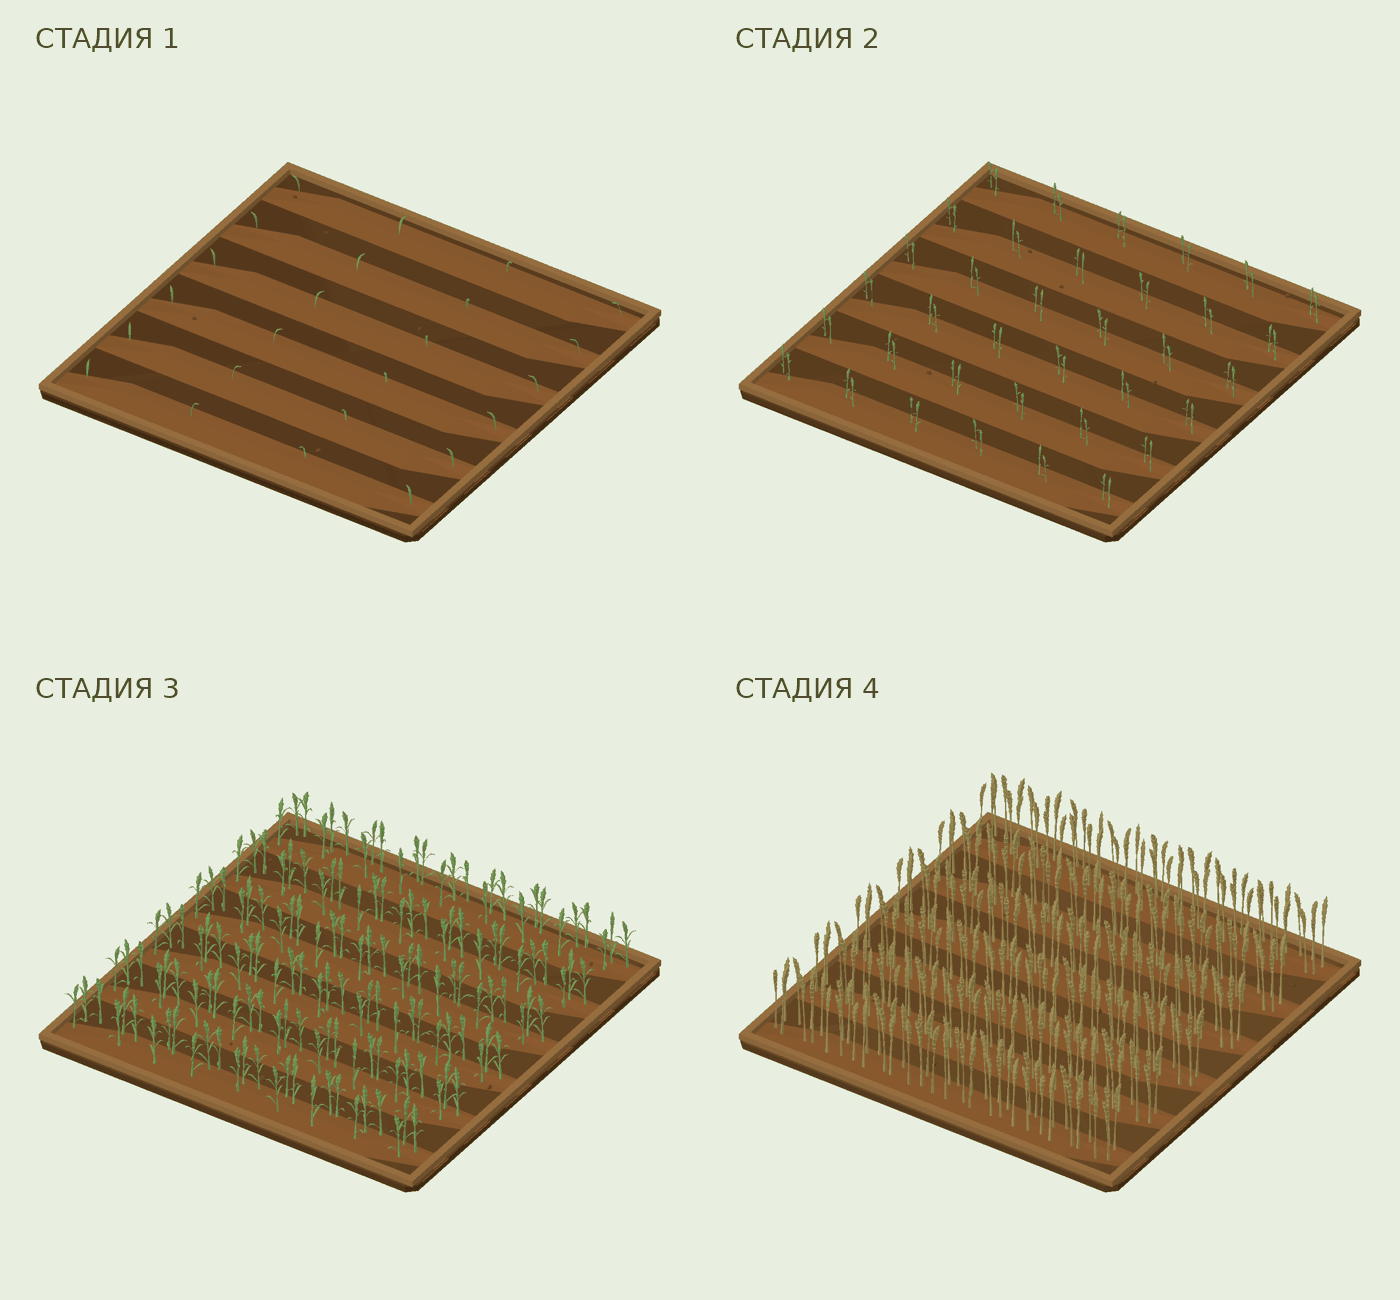
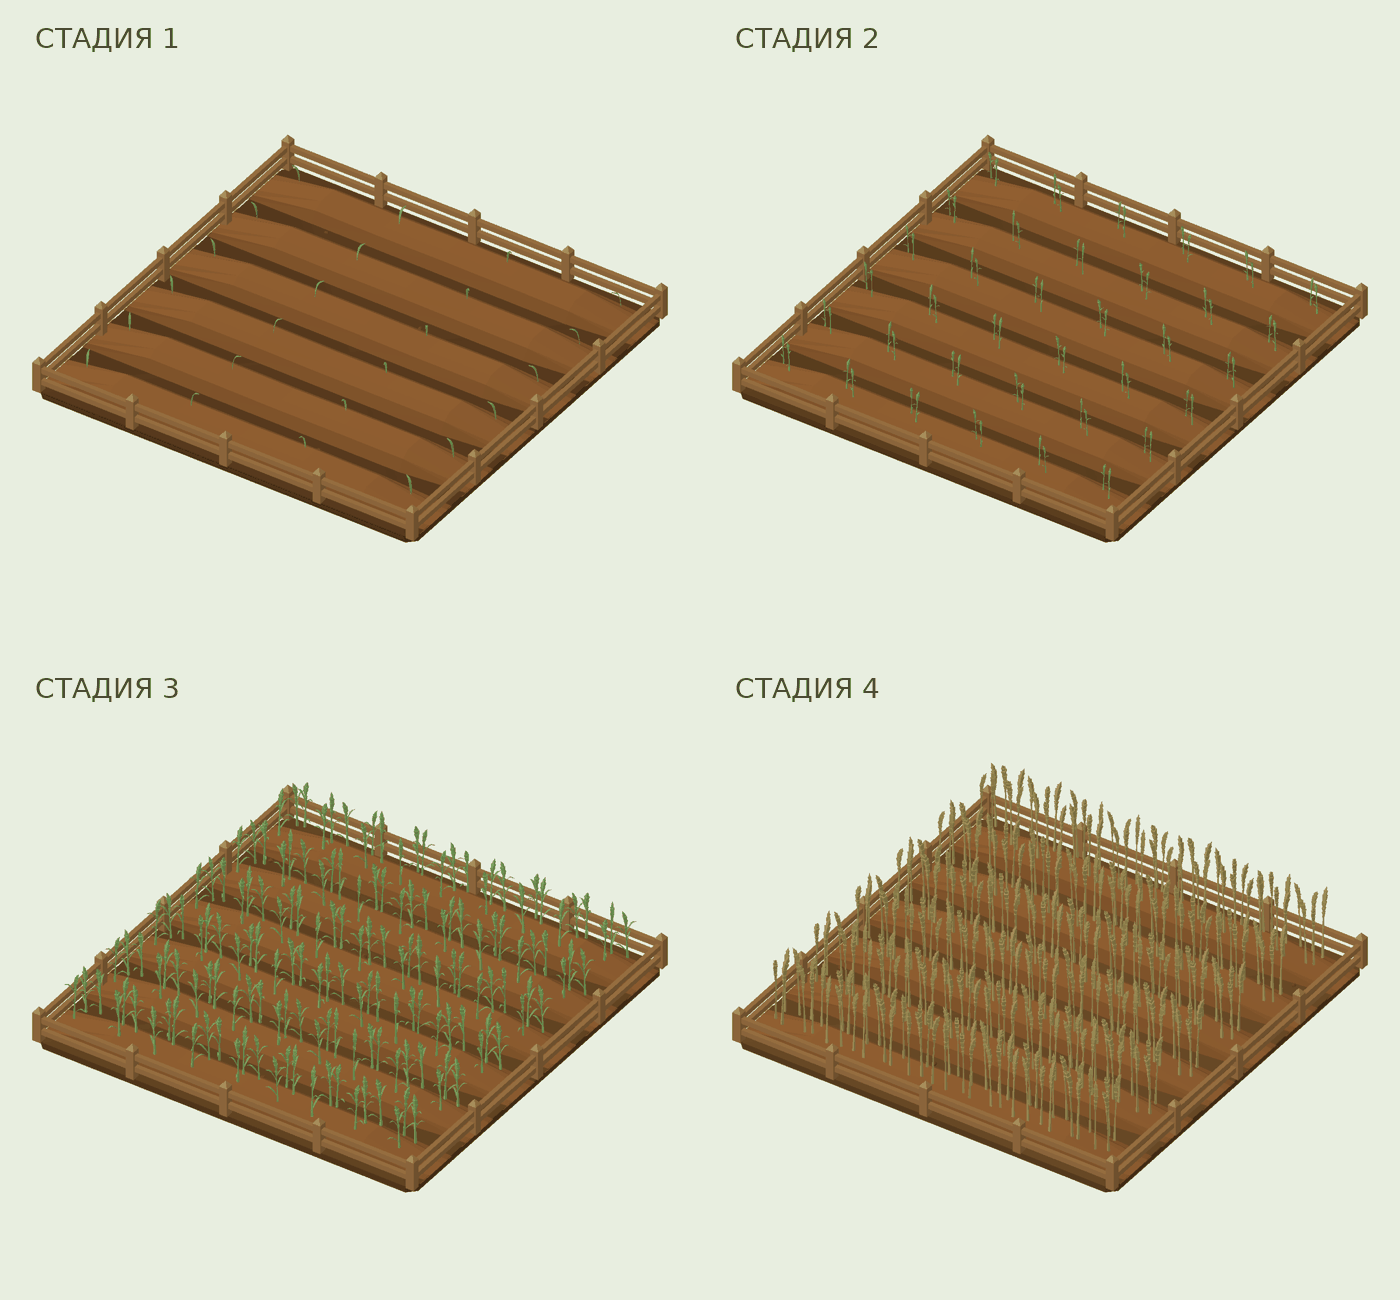
Raise convex low-poly furrows and replace field edging with low post-and-rail fences

diff --git a/src/main.js b/src/main.js
@@ -1,15 +1,15 @@
-import { freshResearch, hasResearch, navigationRange, canTrade } from './research.js?v=lowpoly-fields-1';
-import { STARTING_DECK, promoteReserve, replacementType, hasPlayableCard, canBulldoze } from './card-economy.js?v=lowpoly-fields-1';
-import { collectMillFieldGroups } from './mill-fields.js?v=lowpoly-fields-1';
+import { freshResearch, hasResearch, navigationRange, canTrade } from './research.js?v=field-fence-1';
+import { STARTING_DECK, promoteReserve, replacementType, hasPlayableCard, canBulldoze } from './card-economy.js?v=field-fence-1';
+import { collectMillFieldGroups } from './mill-fields.js?v=field-fence-1';
 import * as THREE from 'three';
 import { MapControls } from 'three/addons/controls/MapControls.js';
 import { GLTFLoader } from 'three/addons/loaders/GLTFLoader.js';
 import { RoundedBoxGeometry } from 'three/addons/geometries/RoundedBoxGeometry.js';
-import { CARD_DEFS, DECK_WEIGHTS, DIRECTIONS, GRID } from './config.js?v=lowpoly-fields-1';
-import { createWorldModel, fitModelToBounds } from './model-layout.js?v=lowpoly-fields-1';
-import { ASSETS, assetVariant } from './models.js?v=lowpoly-fields-1';
+import { CARD_DEFS, DECK_WEIGHTS, DIRECTIONS, GRID } from './config.js?v=field-fence-1';
+import { createWorldModel, fitModelToBounds } from './model-layout.js?v=field-fence-1';
+import { ASSETS, assetVariant } from './models.js?v=field-fence-1';
 import { buildTerrainTile, buildShoreWater, disposeTerrainTile } from './terrain.js?v=water-v2-1';
-import { createBoatVisual, attachLighthouseBeam } from './marine-visuals.js?v=lowpoly-fields-1';
+import { createBoatVisual, attachLighthouseBeam } from './marine-visuals.js?v=field-fence-1';
 import {
   createIslandFragment,
   fragmentDescription,
@@ -18,7 +18,7 @@ import {
   rotateIslandCard,
   rotatedFragmentCells,
   syncIslandGhost
-} from './island-fragments.js?v=lowpoly-fields-1';
+} from './island-fragments.js?v=field-fence-1';
 
 const $=s=>document.querySelector(s);
 const canvas=$('#game');
@@ -1410,7 +1410,8 @@ function createFieldRidge(length,width,height,{westConnected=false,eastConnected
     const t=i/sections;
     const taper=Math.min(1,westConnected?1:t/.12,eastConnected?1:(1-t)/.12);
     const rise=height*taper+(i>0&&i<sections?Math.sin(i*2.1+seed)*.006:0);
-    return [[(t-.5)*length,.258,-width/2],[(t-.5)*length,.258+rise,0],[(t-.5)*length,.258,width/2]];
+    const profile=[[-.50,0],[-.36,.64],[-.20,1],[.20,1],[.36,.64],[.50,0]];
+    return profile.map(([z,y])=>[(t-.5)*length,.258+rise*y,z*width]);
   }
   function triangle(a,b,c,shade){
     const tint=earth.clone().multiplyScalar(shade);
@@ -1418,8 +1419,8 @@ function createFieldRidge(length,width,height,{westConnected=false,eastConnected
   }
   for(let i=0;i<sections;i++){
     const a=section(i),b=section(i+1);
-    for(let j=0;j<2;j++){
-      const shade=j===0?1.07:.92;
+    for(let j=0;j<5;j++){
+      const shade=[.84,1.01,1.10,.96,.78][j];
       triangle(a[j],a[j+1],b[j],shade);triangle(b[j],a[j+1],b[j+1],shade);
     }
   }
@@ -1432,13 +1433,35 @@ function createFieldRidge(length,width,height,{westConnected=false,eastConnected
 }
 function addFieldBorders(group,adjacency){
   const wood=new THREE.MeshStandardMaterial({color:0xa27645,roughness:1,flatShading:true});
-  const half=GRID.tileSize/2-.045;
+  const capMaterial=new THREE.MeshStandardMaterial({color:0xba8d55,roughness:1,flatShading:true});
+  const half=GRID.tileSize/2;
+  const posts=new Set();
+  function addPost(fence,x,z){
+    const id=`${x},${z}`;if(posts.has(id))return;posts.add(id);
+    const post=new THREE.Mesh(new THREE.BoxGeometry(.10,.37,.10),wood);
+    post.position.set(x,.258+.185,z);post.name='Fence_Post';
+    post.castShadow=post.receiveShadow=true;fence.add(post);
+    const cap=new THREE.Mesh(new THREE.ConeGeometry(.073,.07,4),capMaterial);
+    cap.rotation.y=Math.PI/4;cap.position.set(x,.258+.37+.035,z);
+    cap.castShadow=cap.receiveShadow=true;fence.add(cap);
+  }
   for(const side of ['north','east','south','west']){
     if(adjacency[side])continue;
+    const fence=new THREE.Group();fence.name=`field_border_${side}`;
     const horizontal=side==='north'||side==='south';
-    const rail=new THREE.Mesh(new THREE.BoxGeometry(horizontal?GRID.tileSize:.09,.075,horizontal?.09:GRID.tileSize),wood);
-    rail.position.set(side==='east'?half:side==='west'?-half:0,.296,side==='south'?half:side==='north'?-half:0);
-    rail.name=`field_border_${side}`;rail.castShadow=rail.receiveShadow=true;group.add(rail);
+    const offset=(side==='north'||side==='west')?-half:half;
+    for(const y of [.258+.13,.258+.28]){
+      const rail=new THREE.Mesh(new THREE.BoxGeometry(horizontal?GRID.tileSize:.055,.065,horizontal?.055:GRID.tileSize),wood);
+      rail.position.set(horizontal?0:offset,y,horizontal?offset:0);
+      rail.name='Fence_Rail';rail.castShadow=rail.receiveShadow=true;fence.add(rail);
+    }
+    for(let i=0;i<=4;i++){
+      // The preceding neighboring field owns the shared endpoint post.
+      if(i===0&&(horizontal?adjacency.west:adjacency.north))continue;
+      const along=-half+GRID.tileSize*i/4;
+      addPost(fence,horizontal?along:offset,horizontal?offset:along);
+    }
+    group.add(fence);
   }
 }
 function addFieldClods(group,stage,tileSize,synergy=false){
@@ -1491,8 +1514,8 @@ function fieldVisual(stage,synergy=false,tile=null){
 
   const ridgeCount=6;
   const rowSpacing=GRID.tileSize/ridgeCount;
-  const ridgeWidth=.50;
-  const ridgeHeight=[.055,.065,.065,.065][safeStage-1];
+  const ridgeWidth=.61;
+  const ridgeHeight=.19;
   const ridgeLength=tileSize+.02;
   const firstZ=-GRID.tileSize*.5+rowSpacing*.5;
 

diff --git a/index.html b/index.html
@@ -138,19 +138,19 @@
 
   <script type="module" src="./src/seed-runtime.js?v=1"></script>
   <script type="module" src="./src/water-v4-macrowaves.js?v=2"></script>
-  <script type="module" src="./src/main.js?v=lowpoly-fields-1"></script>
-  <script type="module" src="./src/territory-card-preview.js?v=lowpoly-fields-1"></script>
+  <script type="module" src="./src/main.js?v=field-fence-1"></script>
+  <script type="module" src="./src/territory-card-preview.js?v=field-fence-1"></script>
   <script type="module" src="./src/biome-runtime.js?v=2"></script>
-  <script type="module" src="./src/card-progression-runtime.js?v=lowpoly-fields-1"></script>
-  <script type="module" src="./src/save-runtime.js?v=lowpoly-fields-1"></script>
+  <script type="module" src="./src/card-progression-runtime.js?v=field-fence-1"></script>
+  <script type="module" src="./src/save-runtime.js?v=field-fence-1"></script>
   <script type="module" src="./src/settings-runtime.js?v=1"></script>
-  <script type="module" src="./src/progression-runtime.js?v=lowpoly-fields-1"></script>
-  <script type="module" src="./src/draft-runtime.js?v=lowpoly-fields-1"></script>
-  <script type="module" src="./src/combo-encyclopedia.js?v=lowpoly-fields-1"></script>
+  <script type="module" src="./src/progression-runtime.js?v=field-fence-1"></script>
+  <script type="module" src="./src/draft-runtime.js?v=field-fence-1"></script>
+  <script type="module" src="./src/combo-encyclopedia.js?v=field-fence-1"></script>
   <script type="module" src="./src/tutorial-runtime.js?v=2"></script>
-  <script type="module" src="./src/session-shell.js?v=lowpoly-fields-1"></script>
-  <script type="module" src="./src/research-runtime.js?v=lowpoly-fields-1"></script>
-  <script type="module" src="./src/run-ending.js?v=lowpoly-fields-1"></script>
-  <script type="module" src="./src/main-menu.js?v=lowpoly-fields-1"></script>
+  <script type="module" src="./src/session-shell.js?v=field-fence-1"></script>
+  <script type="module" src="./src/research-runtime.js?v=field-fence-1"></script>
+  <script type="module" src="./src/run-ending.js?v=field-fence-1"></script>
+  <script type="module" src="./src/main-menu.js?v=field-fence-1"></script>
 </body>
 </html>

diff --git a/src/models.js b/src/models.js
@@ -1,11 +1,11 @@
 const RTS_ROOT = './assets/quaternius/ultimate-fantasy-rts';
 const PIRATE_MIRROR_COMMIT = 'c850a2840081a30442f252d6e2ce9db4d02362ee';
 const PIRATE_ROOT = `https://raw.githubusercontent.com/eitan567/VerdantIsle/${PIRATE_MIRROR_COMMIT}/models/Pirate%20kit-glb`;
-const rts = file => `${RTS_ROOT}/${file}.gltf?v=lowpoly-fields-1`;
+const rts = file => `${RTS_ROOT}/${file}.gltf?v=field-fence-1`;
 
 export const ASSETS = {
   windmill: rts('Windmill_SecondAge'),
-  lighthouse: './assets/models/corepolis-lighthouse.glb?v=lowpoly-fields-1',
+  lighthouse: './assets/models/corepolis-lighthouse.glb?v=field-fence-1',
   treeA: rts('Resource_PineTree_Group'),
   treeB: rts('Resource_Tree_Group'),
   rockA: rts('Resource_Rock_1'),

diff --git a/src/territory-card-preview.js b/src/territory-card-preview.js
@@ -1,8 +1,8 @@
-import { createWorldModel } from './model-layout.js?v=lowpoly-fields-1';
+import { createWorldModel } from './model-layout.js?v=field-fence-1';
 import * as THREE from 'three';
 import { GLTFLoader } from 'three/addons/loaders/GLTFLoader.js';
-import { GRID } from './config.js?v=lowpoly-fields-1';
-import { ASSETS, assetVariant } from './models.js?v=lowpoly-fields-1';
+import { GRID } from './config.js?v=field-fence-1';
+import { ASSETS, assetVariant } from './models.js?v=field-fence-1';
 import { buildTerrainTile, disposeTerrainTile } from './terrain.js?v=water-v2-1';
 
 const WIDTH=420;

diff --git a/src/main-menu.js b/src/main-menu.js
@@ -1,7 +1,7 @@
-import { createWorldModel, fitModelToBounds } from './model-layout.js?v=lowpoly-fields-1';
+import { createWorldModel, fitModelToBounds } from './model-layout.js?v=field-fence-1';
 import * as THREE from 'three';
 import { GLTFLoader } from 'three/addons/loaders/GLTFLoader.js';
-import { ASSETS, ASSET_VARIANTS, assetVariant } from './models.js?v=lowpoly-fields-1';
+import { ASSETS, ASSET_VARIANTS, assetVariant } from './models.js?v=field-fence-1';
 import { clearSave, hasCompatibleSave, readSave } from './session-state.js?v=1';
 
 const root=document.querySelector('#main-menu');

diff --git a/src/research-runtime.js b/src/research-runtime.js
@@ -1,5 +1,5 @@
-import { DECK_WEIGHTS } from './config.js?v=lowpoly-fields-1';
-import {RESEARCH,hasResearch,prepareResearch,learnResearch,canTrade,pickTradeTypes} from './research.js?v=lowpoly-fields-1';
+import { DECK_WEIGHTS } from './config.js?v=field-fence-1';
+import {RESEARCH,hasResearch,prepareResearch,learnResearch,canTrade,pickTradeTypes} from './research.js?v=field-fence-1';
 const runtime=window.__corepolisRuntime;
 const {state,ui,draw,renderHand,refillHand,status,refreshLucide,islandResearchChoices,fragmentMiniMapMarkup}=runtime;
 let active=false,busy=false;

diff --git a/src/island-fragments.js b/src/island-fragments.js
@@ -1,7 +1,7 @@
 import * as THREE from 'three';
 import { buildTerrainTile, disposeTerrainTile } from './terrain.js?v=water-v2-1';
-import { GRID } from './config.js?v=lowpoly-fields-1';
-import './territory-card-preview.js?v=lowpoly-fields-1';
+import { GRID } from './config.js?v=field-fence-1';
+import './territory-card-preview.js?v=field-fence-1';
 
 export const ISLAND_FRAGMENT_SHAPES=[
   {id:'single',label:'1×1',weight:8,cells:[[0,0]]},

diff --git a/src/save-runtime.js b/src/save-runtime.js
@@ -1,4 +1,4 @@
-import { freshResearch, normalizeResearch } from './research.js?v=lowpoly-fields-1';
+import { freshResearch, normalizeResearch } from './research.js?v=field-fence-1';
 import { clearSave, readSave, writeSave } from './session-state.js?v=1';
 
 const runtime=window.__corepolisRuntime;

diff --git a/src/card-progression-runtime.js b/src/card-progression-runtime.js
@@ -1,4 +1,4 @@
-import { CARD_DEFS, DECK_WEIGHTS } from './config.js?v=lowpoly-fields-1';
+import { CARD_DEFS, DECK_WEIGHTS } from './config.js?v=field-fence-1';
 
 const STORAGE_KEY='corepolis:card-progression:v1';
 const STORAGE_VERSION=1;

diff --git a/docs/ARCHITECTURE.md b/docs/ARCHITECTURE.md
@@ -78,4 +78,4 @@ card-economy.js задаёт конечный стартовый набор (24 
 
 research.js хранит определения пяти исследований, этапы открытия и проверку однократного выбора. research-runtime.js показывает выбор до трёх улучшений, книгу изучений в HUD, выбор фрагментов и обмен на рынке. В сохранение добавлены research (learned/claimed/pending/offers/seaRouteReached), surveyed и fragmentChoices для карты острова; старые сохранения получают пустые исследования. Открытые предложения сохраняются до выбора. Исследования применяются непосредственно в обработке урожая, истощения леса, проверке дальности маяка и допустимости торгового хода. Все диалоги блокируют действия и проверку поражения.
 
-Поля используют низкополигональную основу и шесть гранёных борозд. Окантовка из дерева появляется только по внешним сторонам группы; на общих границах скругления и окантовки отсутствуют. Пшеница Quaternius размещается через InstancedMesh (1–4 растения в пучке в зависимости от стадии), сохраняя пропорции и анимацию рядов.
+Поля используют низкополигональную основу и шесть гранёных борозд. Низкий деревянный забор со столбиками и двумя перекладинами появляется только по внешним сторонам группы. Соседние поля не дублируют столбики; на внутренних границах нет забора. Борозды подняты на 0.19 единицы и имеют выпуклый гранёный профиль. Пшеница Quaternius размещается через InstancedMesh (1–4 растения в пучке в зависимости от стадии), сохраняя пропорции и анимацию рядов.

diff --git a/assets/models/README.md b/assets/models/README.md
@@ -14,4 +14,4 @@ Original Corepolis model, authored specifically for this game. It does not reuse
 
 ## Low-poly fields
 
-The field base and angular furrows are authored procedurally in `src/main.js`; Quaternius wheat meshes are reused in instanced clusters. Four stages are shown in `corepolis-field-preview.png`. Borders appear only on exposed sides; joined soil edges stay square.
+The field base and angular furrows are authored procedurally in `src/main.js`; Quaternius wheat meshes are reused in instanced clusters. Four stages are shown in `corepolis-field-preview.png`. A low wooden fence with posts and two rails appears only on exposed sides; joined soil edges stay square. Furrows have a raised, convex six-point cross-section.
